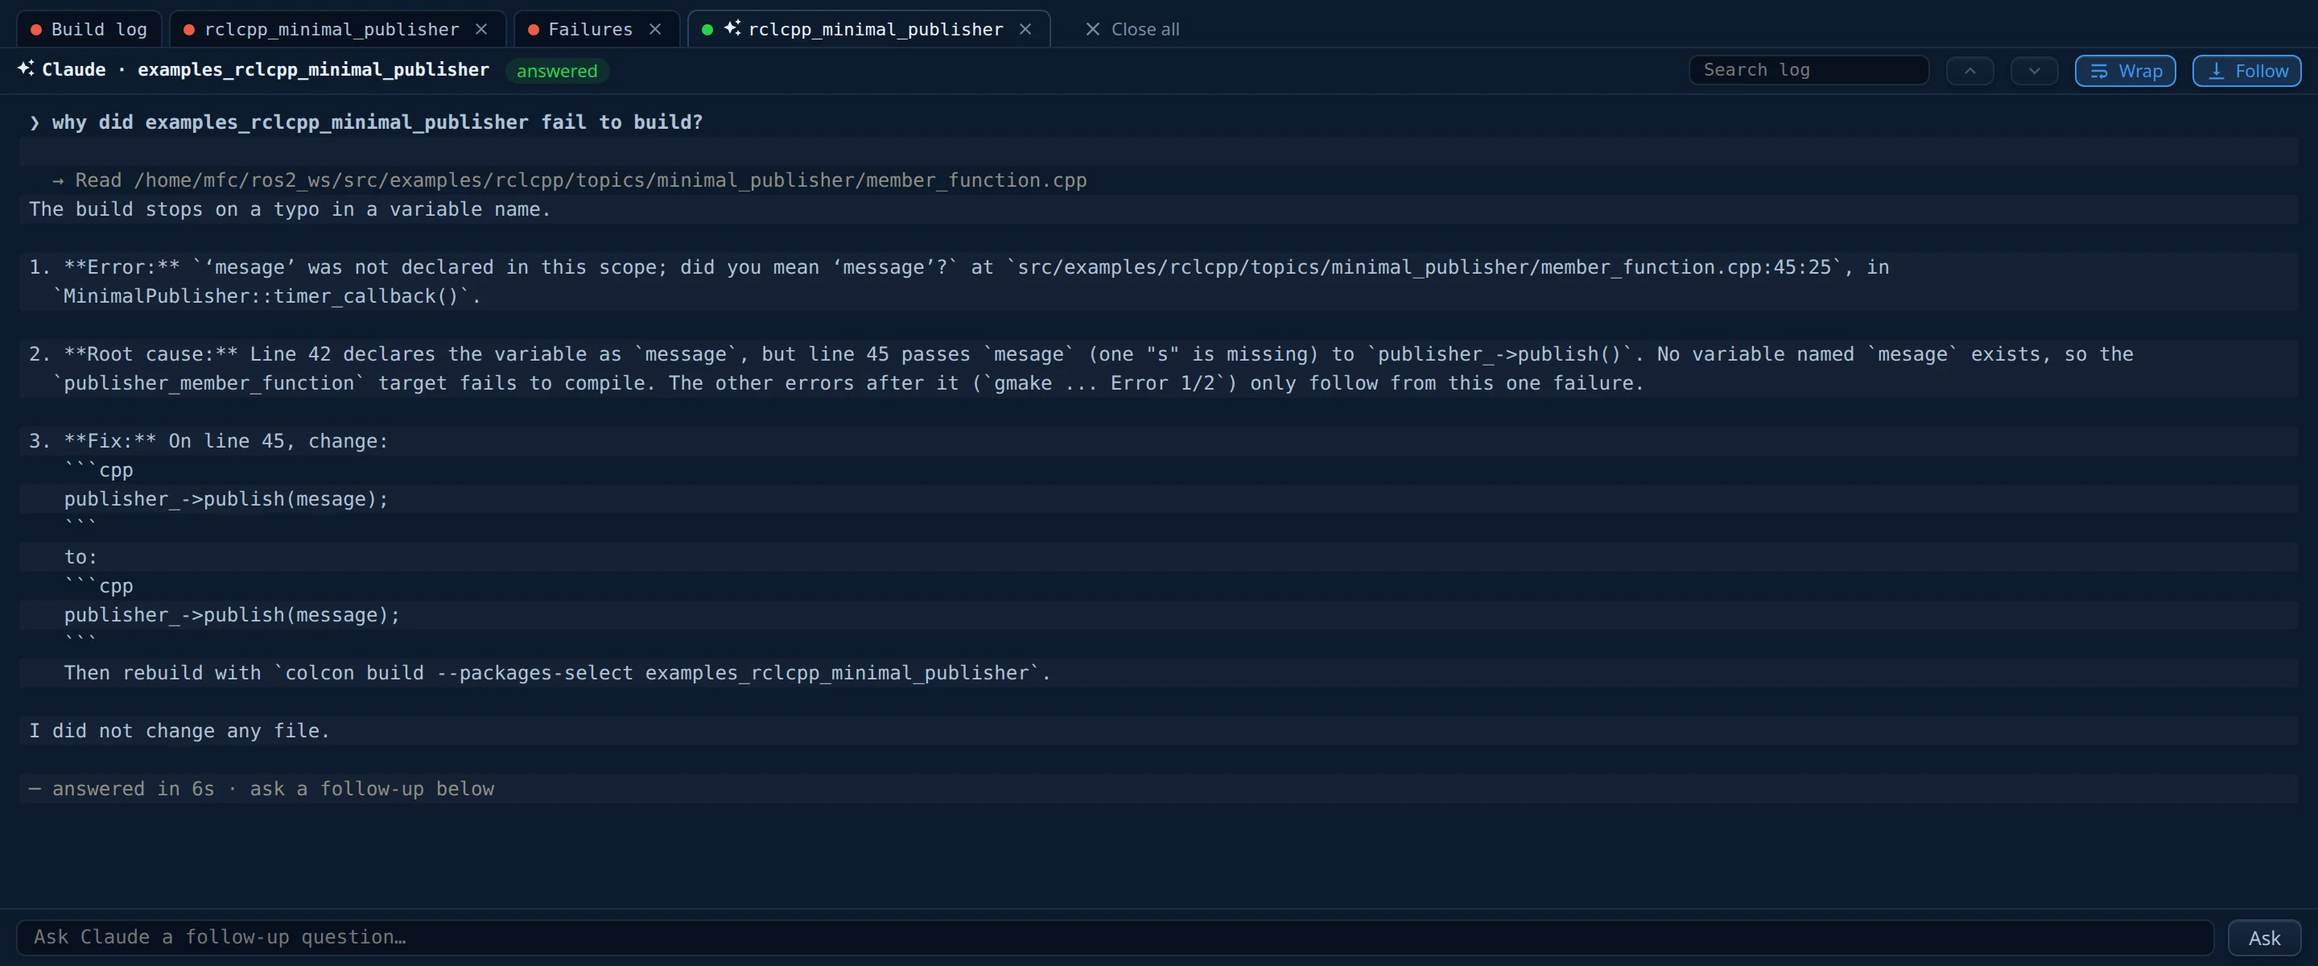
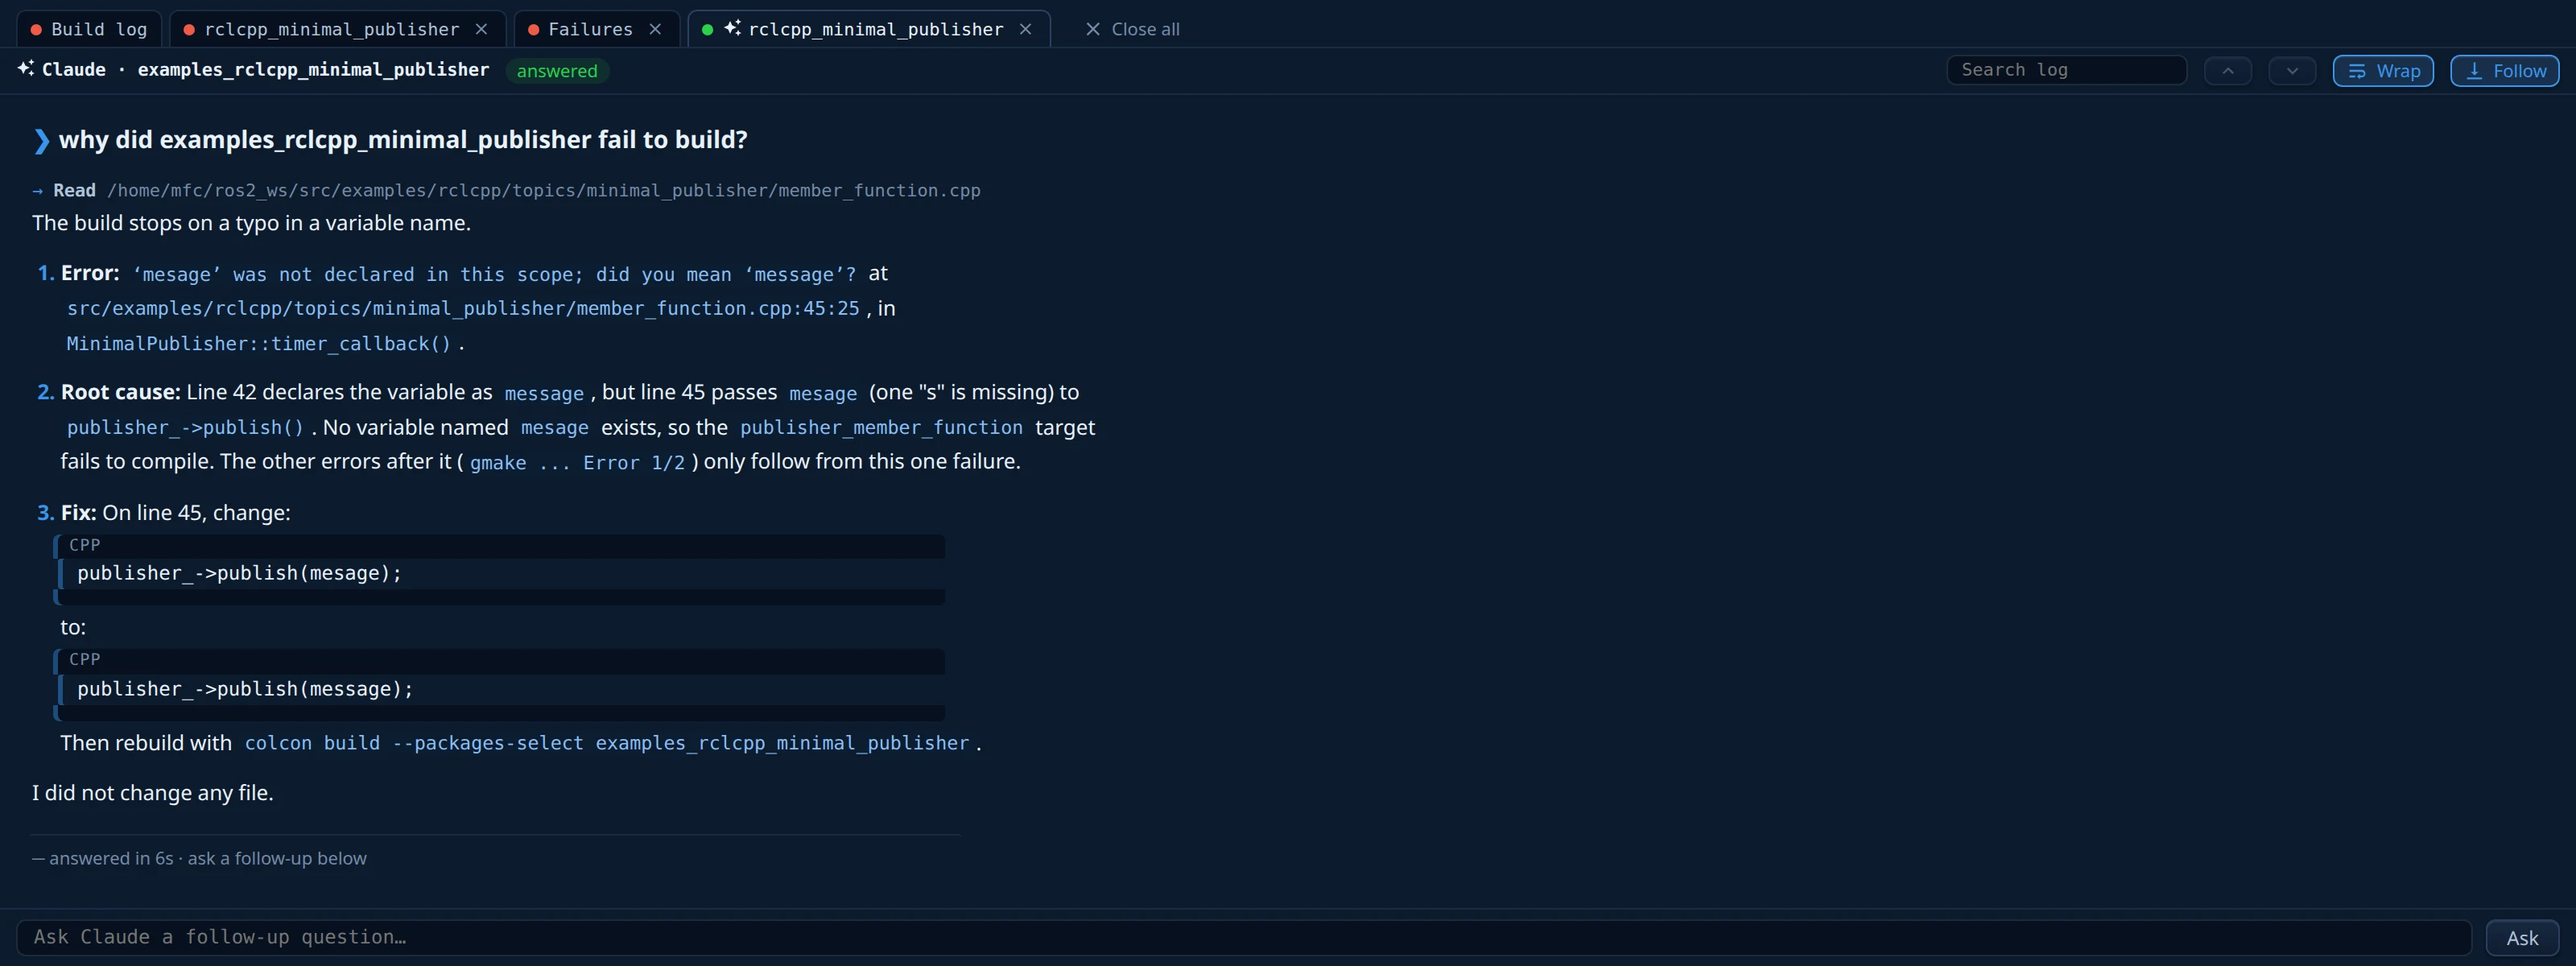
docs: drop the WebKit upgrade steps, and show the rendered Claude answer
The WebKit window was never released, so the upgrade section and the
removal of its data folder go away. The Claude screenshot shows the new
Markdown rendering.

diff --git a/docs/desktop-app.md b/docs/desktop-app.md
@@ -86,18 +86,3 @@ When the server does not answer, the page shows how to start it again, and it op
 If the page runs on the same machine as the server, the server shows the build notifications on your desktop. They arrive also when no dashboard is open. A click on a notification opens the dashboard. The bell button and the settings turn them on and off.
 
 On another machine, through an SSH tunnel, the browser shows the notifications while a dashboard page is open.
-
-## Upgrade from the WebKit window
-
-Version 0.10 and older had a separate window that used WebKitGTK. That window is gone, and the browser app replaces it. For a pipx or pip install, run these commands once after the upgrade:
-
-```bash
-colcon-dashboard --install-desktop     # the entry now opens the browser
-colcon-dashboard --restart-service
-```
-
-To free the disk space of the old window, delete its data directory:
-
-```bash
-rm -r ~/.local/share/colcon-dashboard
-```

diff --git a/docs/install.md b/docs/install.md
@@ -130,7 +130,7 @@ colcon-dashboard --service-status
 3. To remove your settings and the list of recent workspaces too, delete these directories:
 
     ```bash
-    rm -r ~/.config/colcon-dashboard ~/.cache/colcon-dashboard ~/.local/share/colcon-dashboard
+    rm -r ~/.config/colcon-dashboard ~/.cache/colcon-dashboard
     ```
 
 The dashboard never changes your sources or your build results. Into the build log directories it writes only a small `.colcon-dashboard.json` file per run, and `claude-analysis.json` files for the AI failure analyses that you start. These files go away with the logs.
